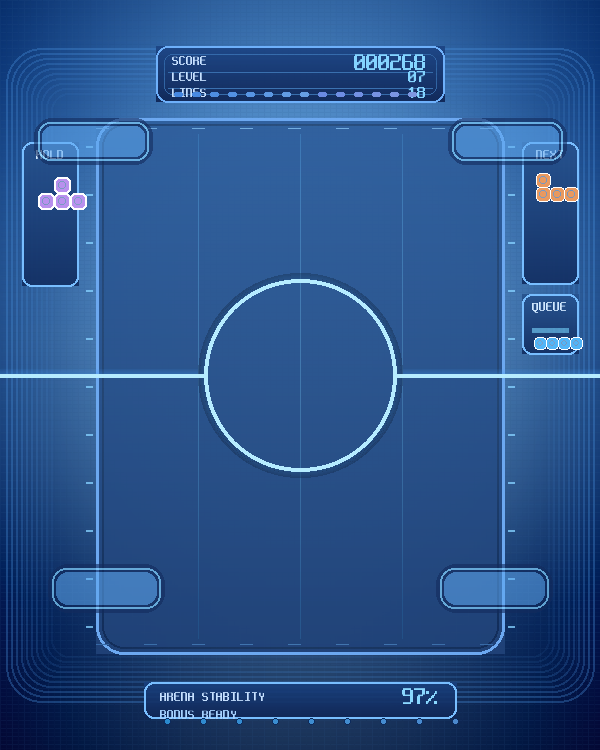
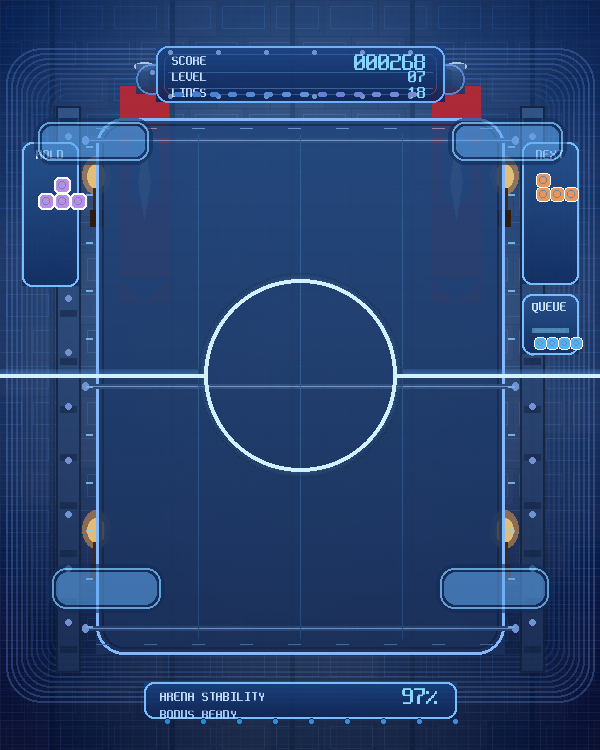
Auto-save #37: Python 코드 작업 - 2025-10-04 02:06:08

diff --git a/generate_stage7_field.py b/generate_stage7_field.py
@@ -455,9 +455,12 @@ def _add_corner_details(image: Image.Image) -> None:
 def create_stage7_background() -> Image.Image:
     base = Image.new("RGBA", (WIDTH, HEIGHT), (0, 0, 0, 0))
     _draw_gradient(base)
+    _draw_stone_texture(base)
     _add_vignette(base)
     _draw_pixel_grid(base)
     _draw_side_glow(base)
+    _draw_torches(base)
+    _draw_banners(base)
     _draw_playfield_panel(base)
     _draw_center_lines(base)
     _add_corner_details(base)
